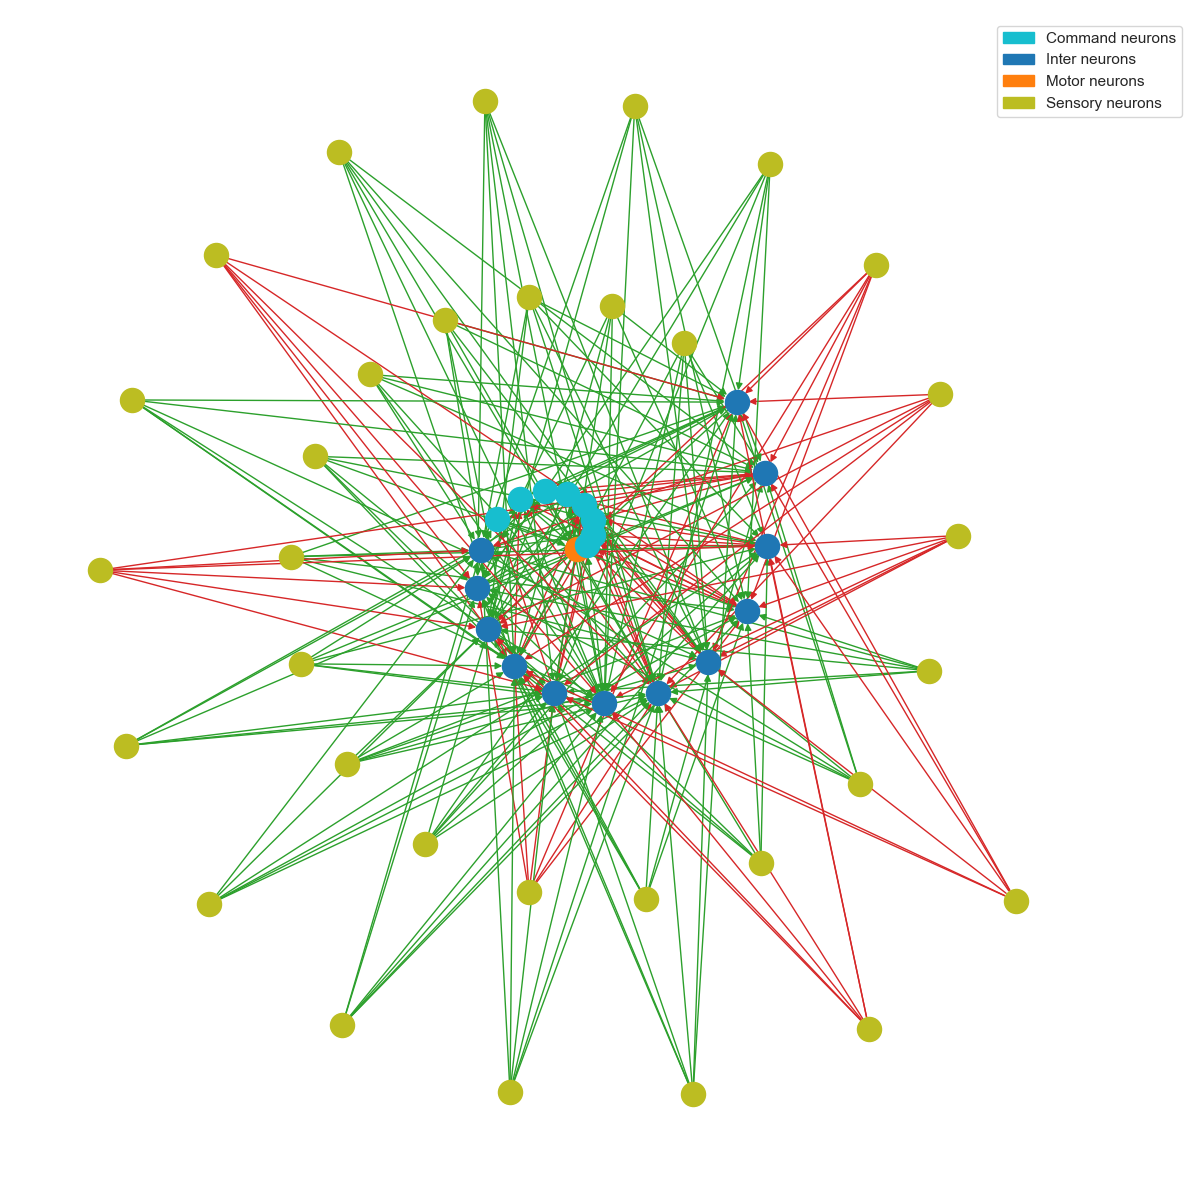
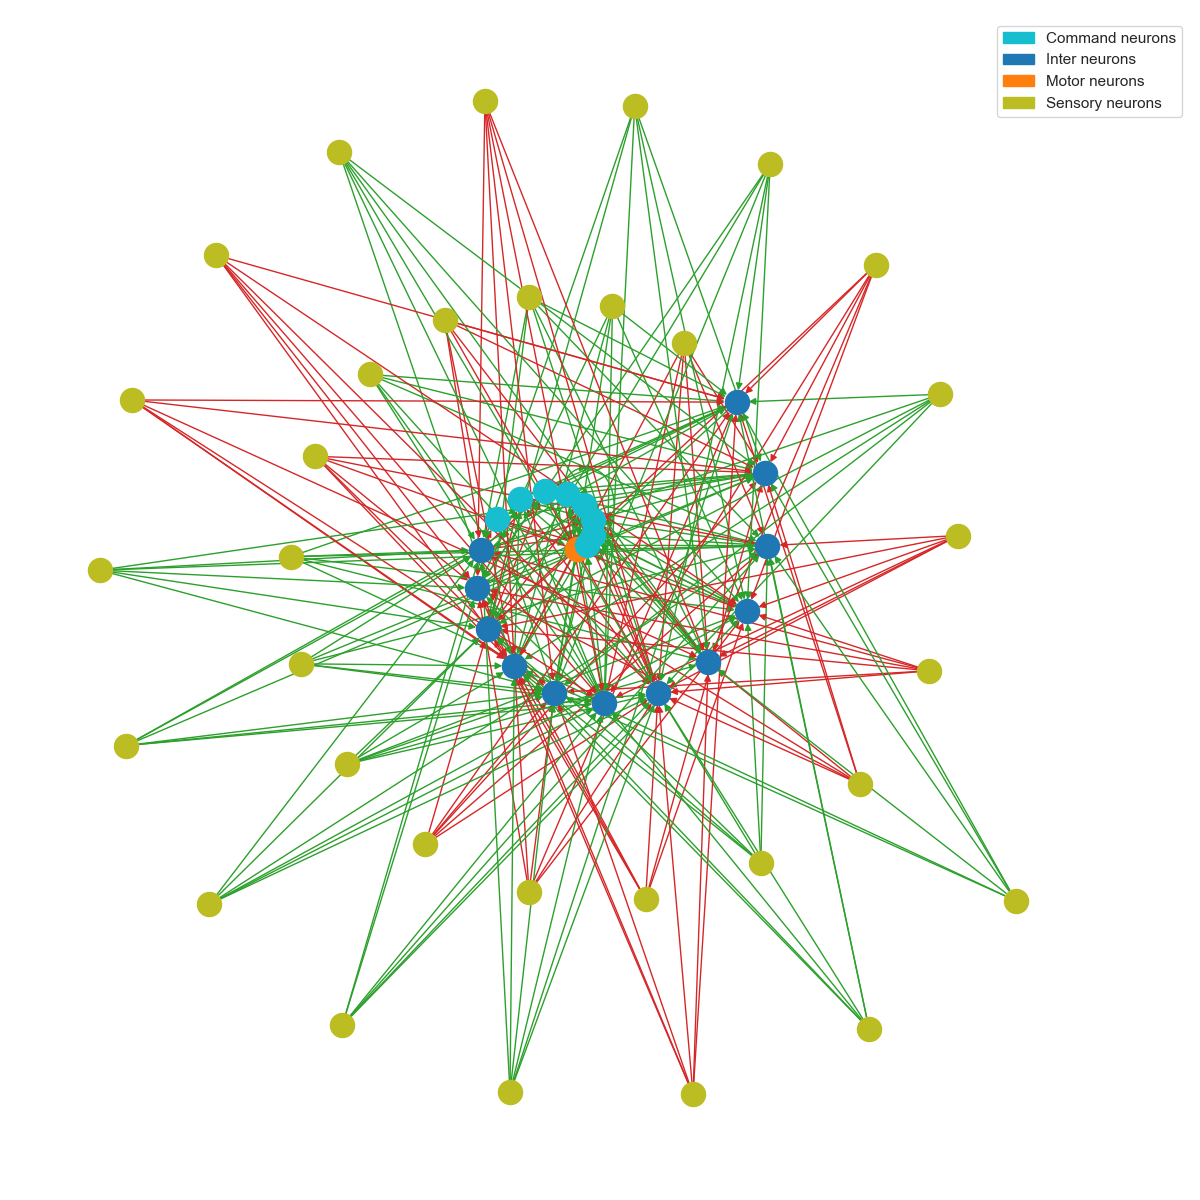
feat(wirings): self connecting command neurons have always excitatory synapses

diff --git a/examples/stacking_ncp.py b/examples/stacking_ncp.py
@@ -42,52 +42,53 @@ fig.suptitle("LIDAR collision avoidance training examples")
 
 N = x_train.shape[2]
 channels = x_train.shape[3]
+neuron_numbers = [6, 7, 8, 10, 11, 13, 15, 17, 19, 21]
 
-wiring = AutoNCP(21,1)
+for neuron_number in neuron_numbers:
+    wiring = AutoNCP(neuron_number,1)
 
-# We need to use the TimeDistributed layer to independently apply the
-# Conv1D/MaxPool1D/Dense over each time-step of the input time-series.
-model = keras.models.Sequential(
-    [
-        keras.layers.InputLayer(input_shape=(None, N, channels)),
-        keras.layers.TimeDistributed(
-            keras.layers.Conv1D(18, 5, strides=3, activation="relu")
-        ),
-        keras.layers.TimeDistributed(
-            keras.layers.Conv1D(20, 5, strides=2, activation="relu")
-        ),
-        keras.layers.TimeDistributed(keras.layers.MaxPool1D()),
-        keras.layers.TimeDistributed(
-            keras.layers.Conv1D(22, 5, activation="relu")
-        ),
-        keras.layers.TimeDistributed(keras.layers.MaxPool1D()),
-        keras.layers.TimeDistributed(
-            keras.layers.Conv1D(24, 5, activation="relu")
-        ),
-        keras.layers.TimeDistributed(keras.layers.Flatten()),
-        keras.layers.TimeDistributed(keras.layers.Dense(32, activation="relu")),
-        LTC(wiring, return_sequences=True),
-    ]
-)
-model.compile(
-    optimizer=keras.optimizers.Adam(0.01), loss="mean_squared_error",
-)
+    # We need to use the TimeDistributed layer to independently apply the
+    # Conv1D/MaxPool1D/Dense over each time-step of the input time-series.
+    model = keras.models.Sequential(
+        [
+            keras.layers.InputLayer(input_shape=(None, N, channels)),
+            keras.layers.TimeDistributed(
+                keras.layers.Conv1D(18, 5, strides=3, activation="relu")
+            ),
+            keras.layers.TimeDistributed(
+                keras.layers.Conv1D(20, 5, strides=2, activation="relu")
+            ),
+            keras.layers.TimeDistributed(keras.layers.MaxPool1D()),
+            keras.layers.TimeDistributed(
+                keras.layers.Conv1D(22, 5, activation="relu")
+            ),
+            keras.layers.TimeDistributed(keras.layers.MaxPool1D()),
+            keras.layers.TimeDistributed(
+                keras.layers.Conv1D(24, 5, activation="relu")
+            ),
+            keras.layers.TimeDistributed(keras.layers.Flatten()),
+            keras.layers.TimeDistributed(keras.layers.Dense(32, activation="relu")),
+            LTC(wiring, return_sequences=True),
+        ]
+    )
+    model.compile(
+        optimizer=keras.optimizers.Adam(0.01), loss="mean_squared_error",
+    )
 
-model.summary(line_length=100)
+    model.summary(line_length=100)
 
-# Plot the network architecture
+    # Plot the network architecture
 
-sns.set_style("white")
-plt.figure(figsize=(12, 12))
-legend_handles = wiring.draw_graph(layout='spiral',neuron_colors={"command": "tab:cyan"})
-plt.legend(handles=legend_handles, loc="upper center", bbox_to_anchor=(1, 1))
-sns.despine(left=True, bottom=True)
-plt.tight_layout()
-plt.savefig("architecture4.png")
-plt.show()
+    sns.set_style("white")
+    plt.figure(figsize=(12, 12))
+    legend_handles = wiring.draw_graph(layout='spiral',neuron_colors={"command": "tab:cyan"})
+    plt.legend(handles=legend_handles, loc="upper center", bbox_to_anchor=(1, 1))
+    sns.despine(left=True, bottom=True)
+    plt.tight_layout()
+    plt.savefig("architecture" + str(neuron_number) + ".png")
 
 # Evaluate the model before training
-print("Validation set MSE before training")
+# print("Validation set MSE before training")
 # model.evaluate(x_valid, y_valid)
 
 # # Train the model

diff --git a/ncps/wirings/wirings.py b/ncps/wirings/wirings.py
@@ -532,7 +532,11 @@ class NCP(Wiring):
         for i in range(self._recurrent_command_synapses):
             src = self._rng.choice(self._command_neurons)
             dest = self._rng.choice(self._command_neurons)
-            polarity = 1
+            # TODO: The neurons which connects to itself, they must have an excitatory synapse
+            if src == dest:
+                polarity = 1
+            else:
+                polarity = self._rng.choice([-1, 1])
             self.add_synapse(src, dest, polarity)
 
     def _build_command__to_motor_layer(self, inhibitory_percentage = 0):
